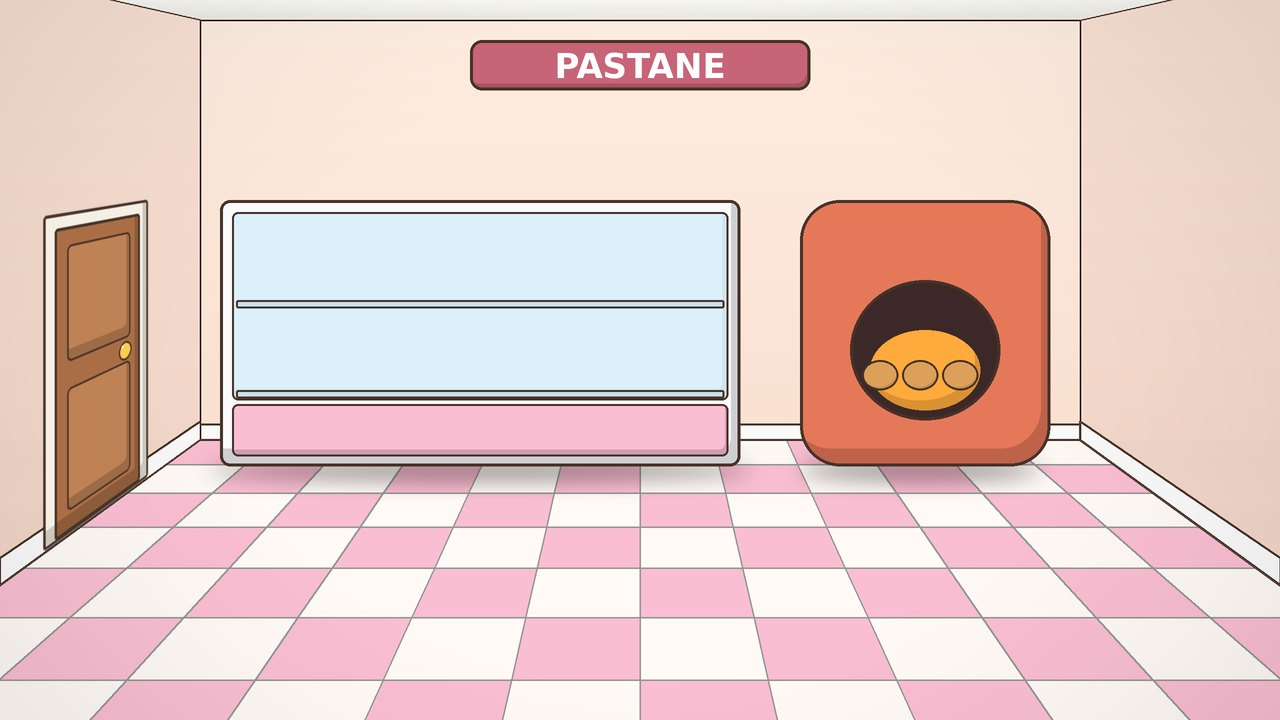
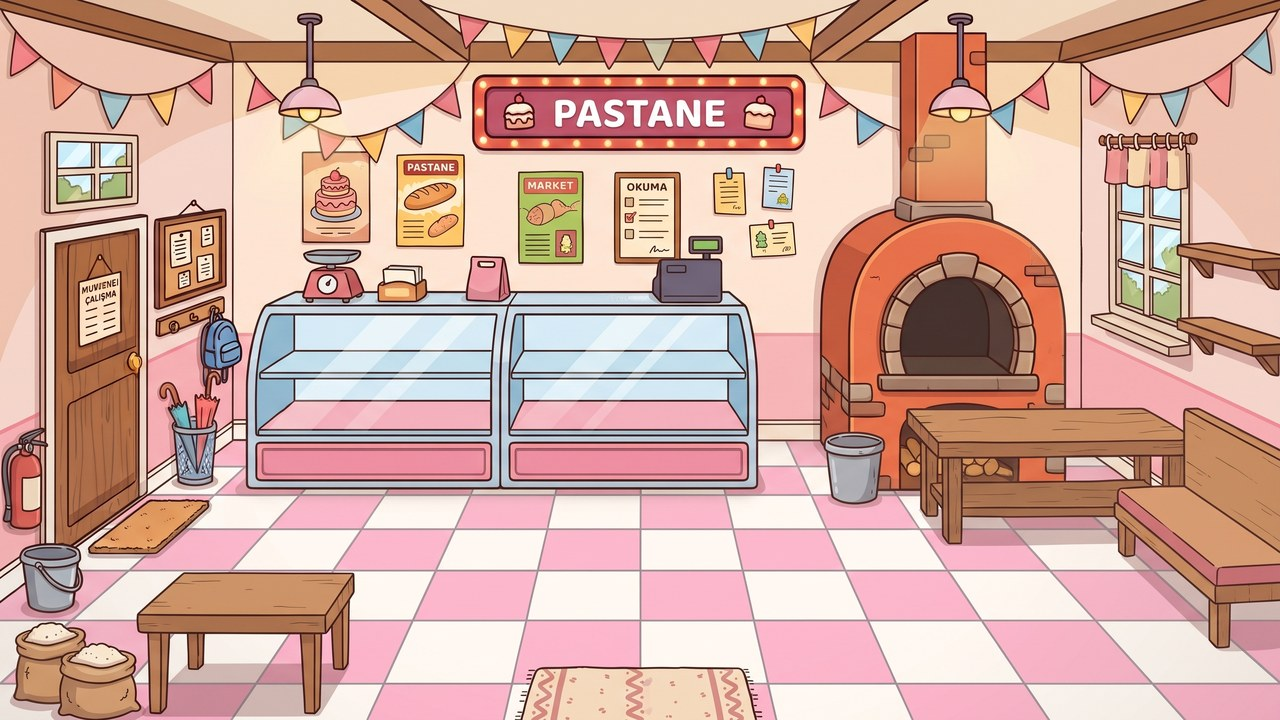
Pastane: yeni resim, dolu vitrin, taş fırında ateş, iki tahta masa ve bank
Claude-Session: https://claude.ai/code/session_01FSkVF6b9FMUcpnurV8yuFZ

diff --git a/js/veri.js b/js/veri.js
@@ -603,20 +603,32 @@ window.OYUN_VERI = {
     },
     pastane: {
       ad: "Pastane", simge: "pastane",
-      resim: "cizimler/mekan/pastane.jpg", zemin: ZEMIN, giris: GIRIS_SOL,
-      kapilar: [{ ...KAPI_SOL, hedef: "dunya", yer: "pastane" }],
+      resim: "cizimler/mekan/pastane.jpg",
+      zemin: { ust: 490, alt: 705, sol: 30, sag: 1250, ufuk: { x: 640, y: 200 }, arka: { sol: 230, sag: 1080, y: 440 } },
+      giris: { x: 240, y: 600 },
+      kapilar: [{ x: 40, y: 215, w: 110, h: 330, hedef: "dunya", yer: "pastane" }],
       calisan: {
-        meslek: "pastaci", x: 770, y: 500,
+        meslek: "pastaci", x: 820, y: 560,
         selam: "Hoş geldiniz! Bugün taze pastalarımız var.",
         sozler: ["Doğum günü pastası mı istersiniz?", "Çilekli mi olsun, çikolatalı mı?", "Kurabiyeler fırından yeni çıktı.", "Mumlarını da koyayım mı?", "Afiyet olsun!"],
       },
       noktalar: [
+        // İki camlı vitrinin iki katı. Alınanın yerine yenisi gelir.
         {
           tur: "raf", raflar: [
-            { sablon: "pasta", x: 300, y: 300 }, { sablon: "kurabiye", x: 420, y: 300 }, { sablon: "dondurma", x: 540, y: 300 }, { sablon: "pasta", x: 660, y: 300 },
-            { sablon: "ekmek", x: 300, y: 390 }, { sablon: "kurabiye", x: 420, y: 390 }, { sablon: "cilek", x: 540, y: 390 }, { sablon: "kurabiye", x: 660, y: 390 },
+            { sablon: "pasta", x: 295, y: 370 }, { sablon: "kurabiye", x: 365, y: 370 }, { sablon: "dondurma", x: 435, y: 370 },
+            { sablon: "pasta", x: 550, y: 370 }, { sablon: "cilek", x: 620, y: 370 }, { sablon: "kurabiye", x: 690, y: 370 },
+            { sablon: "ekmek", x: 300, y: 432 }, { sablon: "kurabiye", x: 370, y: 432 }, { sablon: "ekmek", x: 440, y: 432 },
+            { sablon: "kurabiye", x: 555, y: 432 }, { sablon: "pasta", x: 625, y: 432 }, { sablon: "ekmek", x: 695, y: 432 },
           ],
         },
+        { tur: "tezgah", x: 250, y: 270, w: 505, h: 40, ust: 298 },
+        // Taş fırın: dokununca ateş yanar. Tencere ve tava ateşe konur.
+        { tur: "ocak", x: 880, y: 250, w: 165, h: 140, gozler: [{ x: 960, y: 380 }] },
+        // Sağdaki tahta masa ve bank, soldaki ön masa.
+        { tur: "tezgah", x: 905, y: 395, w: 280, h: 40, ust: 418 },
+        { tur: "otur", x: 1120, y: 450, w: 160, h: 180, oturma: { x: 1195, y: 610 } },
+        { tur: "tezgah", x: 140, y: 560, w: 215, h: 40, ust: 582 },
       ],
     },
   },
